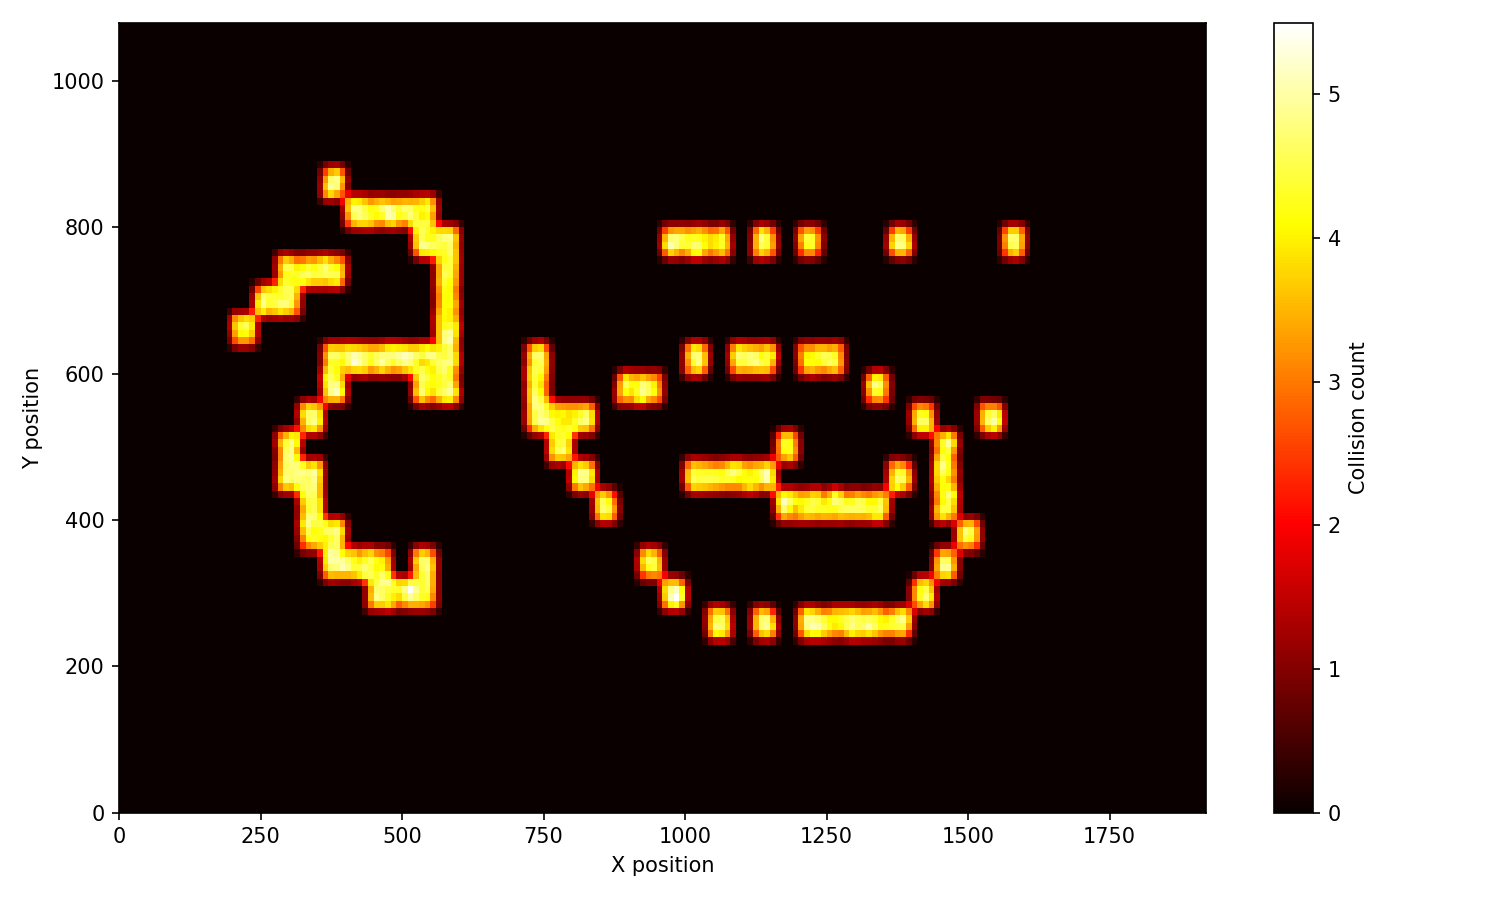
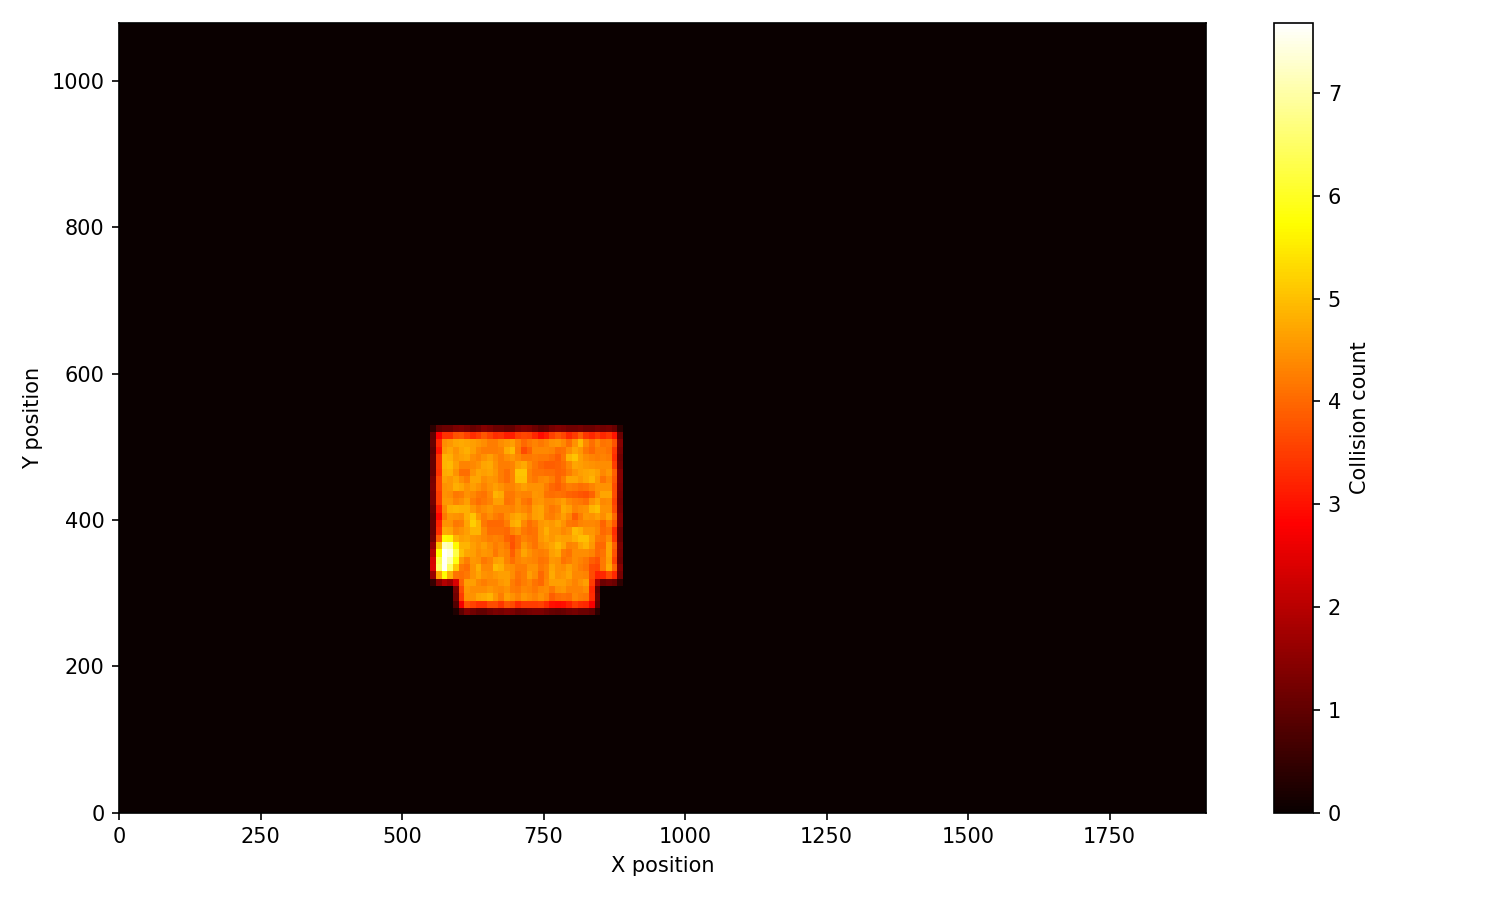
Sometimes the grafs are upsidee down

diff --git a/app/src/main/java/com/demopanel/PaintingPanel.java b/app/src/main/java/com/demopanel/PaintingPanel.java
@@ -25,14 +25,14 @@ public class PaintingPanel extends JPanel {
     private java.io.File lastDirectory = loadLastDirectory();
 
     // Odczytuje ostatnio używany folder. Jeśli zapisana ścieżka nie istnieje
-    // (np. pochodzi z innego systemu), wraca do katalogu roboczego aplikacji.
+    // (np. pochodzi z innego systemu), wraca do katalogu domowego użytkownika.
     private java.io.File loadLastDirectory() {
         String saved = settingsManager.getStringSetting("lastDirectory", "");
         if (!saved.isEmpty()) {
             java.io.File dir = new java.io.File(saved);
             if (dir.exists() && dir.isDirectory()) return dir;
         }
-        return new java.io.File(System.getProperty("user.dir"), "app"); // podkatalog app - tam, gdzie grid.txt
+        return new java.io.File(System.getProperty("user.dir")); // katalog domowy użytkownika
     }
 
     boolean paintMode = false;
